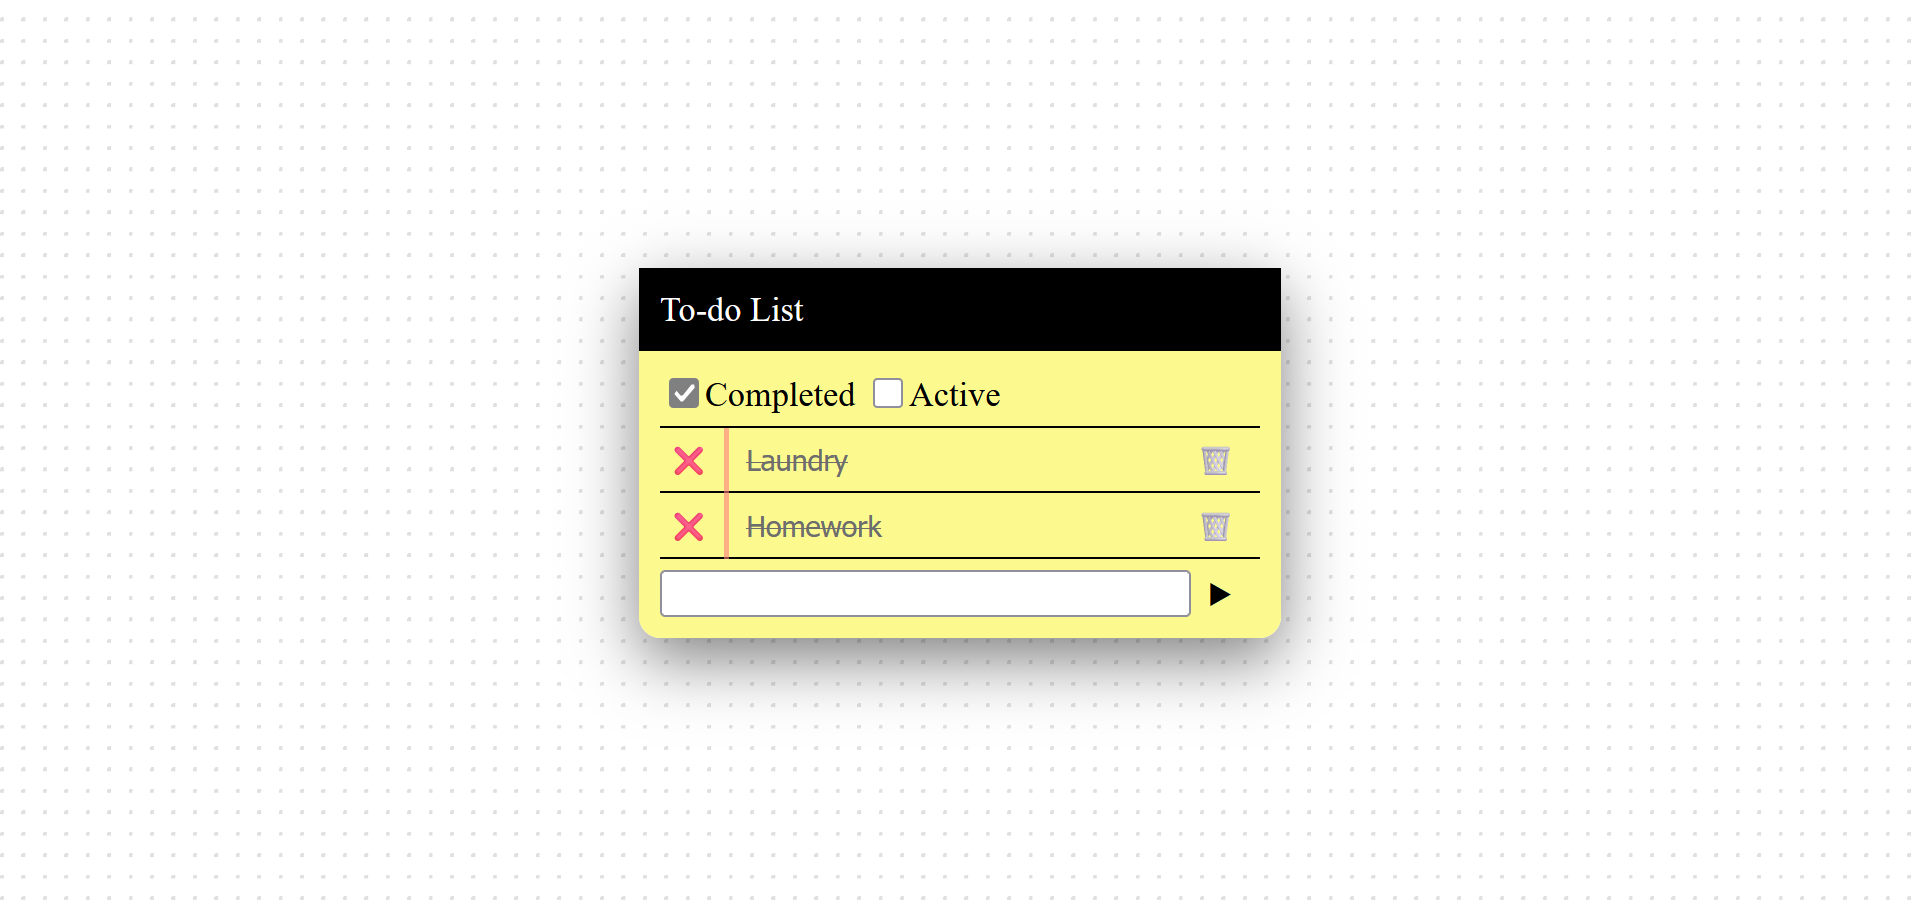
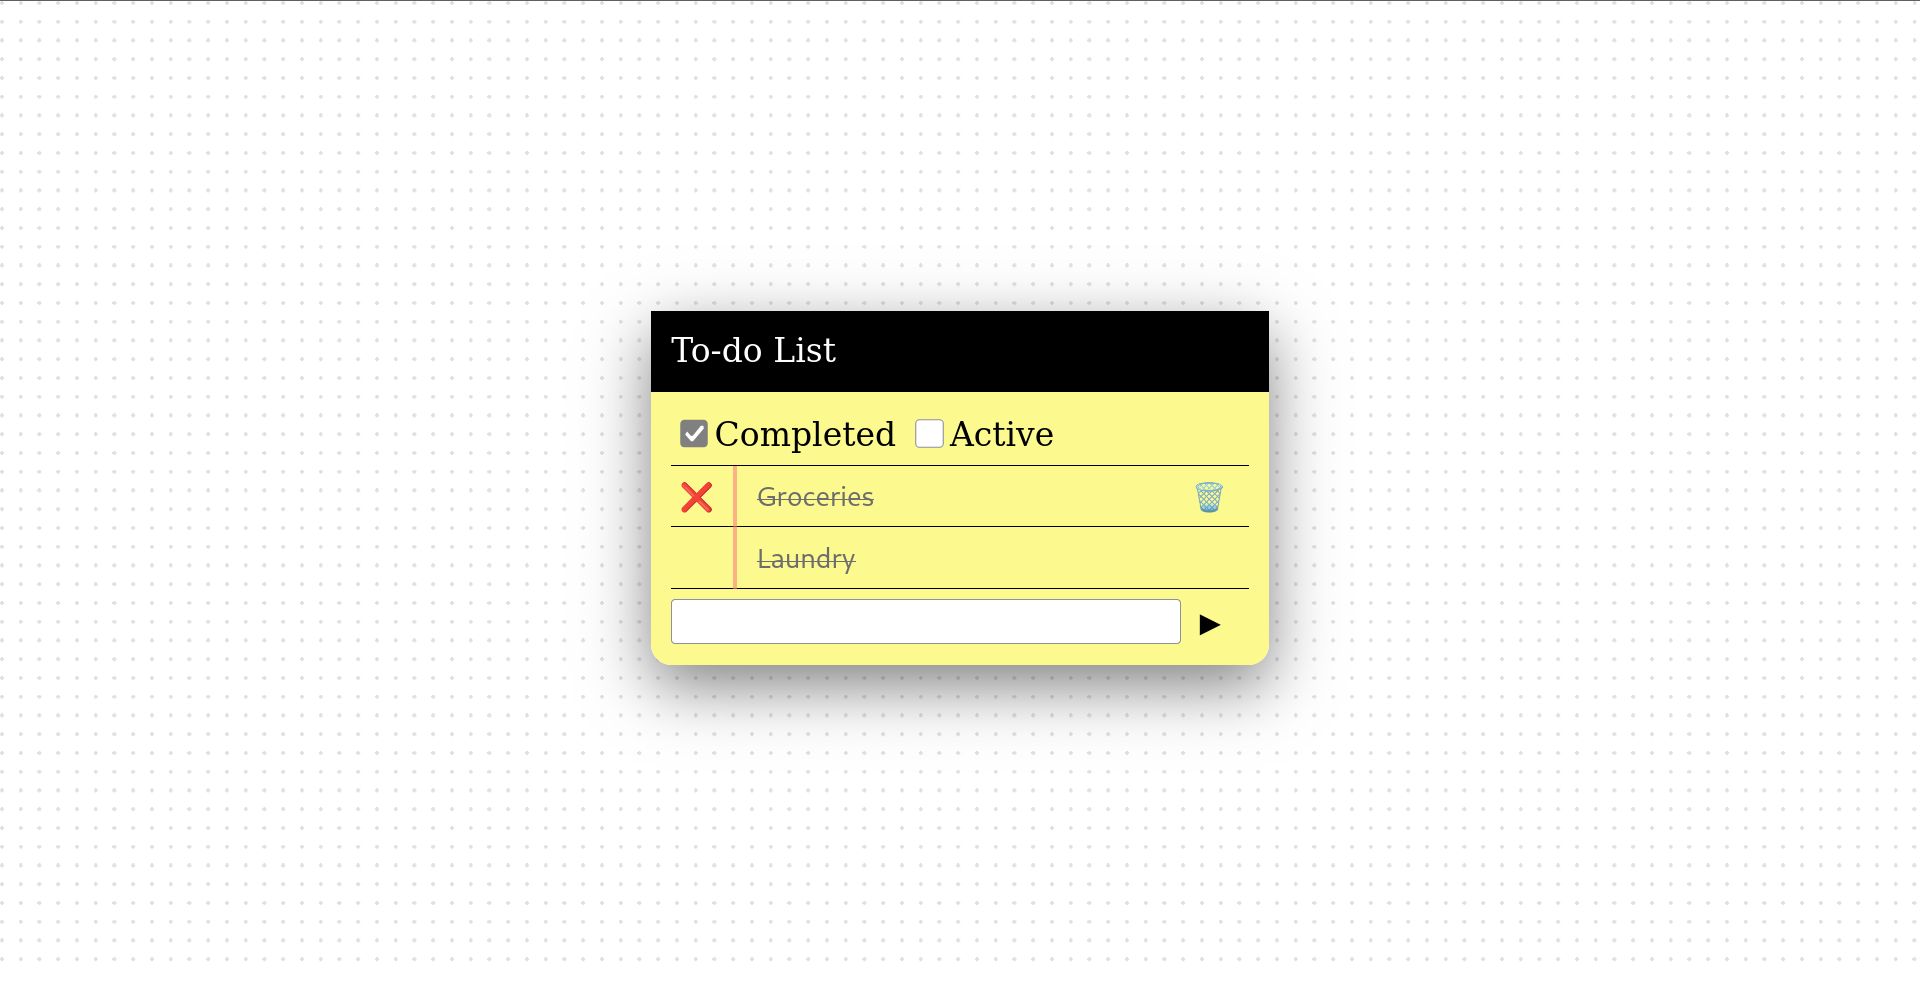
fixed bugs and added redundancy for REST

Changed region(s): [[0.3078, 0.2775, 0.6771, 0.7709]]

diff --git a/index.js b/index.js
@@ -4,61 +4,97 @@ const submitButton = document.getElementById("todo-submit");
 const completedBox = document.getElementById("completed-box");
 const activeBox = document.getElementById("active-box");
 
+userTextField.value = '';
 let todos = []
 
 async function loadTodos() {
-    const res = await fetch('http://localhost:3000/todos');
-    const data = await res.json();
-    return data;
+    try {
+        const res = await fetch('http://localhost:3000/todos');
+        const data = await res.json();
+        return data;
+    } catch (err) {
+        console.error(err);
+    }
 }
 
 async function deleteTodo(todoId) {
-    await fetch(`http://localhost:3000/todos/${todoId}`, { method: 'DELETE' });
-    
-    renderTodos();
+    try {
+        await fetch(`http://localhost:3000/todos/${todoId}`, { method: 'DELETE' });
+        
+        renderTodos();
+    } catch (err) {
+        console.error(err);
+    }
 }
 
 async function doneTodo(todoId) {
-    const todo = todos.find(t => t._id === todoId);
-    await fetch(`http://localhost:3000/todos/${todoId}`, {
-        method: 'PATCH',
-        headers: { 'Content-Type': 'application/json' },
-        body: JSON.stringify({ status: !todo.status })
-    })
-
-    renderTodos();
+    try {
+        const todo = todos.find(t => t._id === todoId);
+        await fetch(`http://localhost:3000/todos/${todoId}`, {
+            method: 'PATCH',
+            headers: { 'Content-Type': 'application/json' },
+            body: JSON.stringify({ status: !todo.status })
+        })
+    
+        renderTodos();
+    } catch (err) {
+        console.error(err);
+    }
 }
 
 async function insertTodo() {
-    const textValue = userTextField.value;
-    userTextField.value = "";
-
-    const res = await fetch('http://localhost:3000/todos', {
-        method: 'POST',
-        headers: { 'Content-Type': 'application/json' },
-        body: JSON.stringify({ text: textValue })
-    });
+    try {
+        if (!userTextField.value) return;
+        const textValue = userTextField.value;
+        userTextField.value = "";
     
-    renderTodos();
+        const res = await fetch('http://localhost:3000/todos', {
+            method: 'POST',
+            headers: { 'Content-Type': 'application/json' },
+            body: JSON.stringify({ text: textValue })
+        });
+        
+        renderTodos();
+    } catch (err) {
+        console.error(err);
+    }
 }
 
 // Creates a html containing the to do list
 function createTodo(id, text, status) {
     return `
         <div class="counter-element" data-id="id-${id}">
-        <button class="done-button button">${status ? "❌" : "✔"}</button>
-        <input class="text-area ${status ? "strike" : ""}" value="${text}" ${status ? "disabled" : ""}>
-        <button class="delete-button button">🗑</button>
+            <div class="todo-button-div">
+                <button class="done-button button todo-button">${status ? "❌" : "✔"}</button>
+            </div>
+            <input class="text-area ${status ? "strike" : ""}" value="${text}" ${status ? "disabled" : ""}>
+            <div class="todo-button-div">
+                <button class="delete-button button todo-button">🗑</button>
+            </div>
         </div>
     `;
 }
     
-function setupEventListener(newTodo, todoId) {
+async function setupEventListener(newTodo, todoId) {
     const doneButton = newTodo.querySelector(".done-button");
     const deleteButton = newTodo.querySelector(".delete-button");
+    const todoInput = newTodo.querySelector(".text-area");
 
     doneButton.addEventListener("click", () => doneTodo(todoId));
     deleteButton.addEventListener("click", () => deleteTodo(todoId));
+    
+    try {
+        // Save the changes made
+        todoInput.addEventListener("change", async (e) => {
+            await fetch(`http://localhost:3000/todos/${todoId}`, {
+                method: 'PATCH',
+                headers: { 'Content-Type': 'application/json' },
+                body: JSON.stringify({ text: e.target.value })
+            })
+        });
+    } catch (err) {
+        console.error(err);
+    }
 }
 
 async function renderTodos(complete = completedBox.checked, active = activeBox.checked) {
@@ -87,7 +123,7 @@ activeBox.addEventListener("change", () => renderTodos(completedBox.checked, act
 
 document.addEventListener("keydown", (event) => {
     const key = event.key;
-    if (key === "Enter") {
+    if (key === "Enter" && userTextField.value && document.activeElement === userTextField) {
         event.preventDefault();
         insertTodo();
     }

diff --git a/server/routes/todos.js b/server/routes/todos.js
@@ -4,23 +4,39 @@ const Todo = require('../models/Todo')
 
 
 router.get('/', async (req, res) => {
-    const todos = await Todo.find();
-    res.json(todos)
+    try {
+        const todos = await Todo.find();
+        res.json(todos)
+    } catch (err) {
+        next(err);
+    }
 })
 
 router.post('/', async (req, res) => {
-    const todo = await Todo.create({ text: req.body.text })
-    res.json(todo)
+    try {
+        const todo = await Todo.create({ text: req.body.text })
+        res.json(todo)
+    } catch (err) {
+        next(err);
+    }
 })
 
 router.delete('/:id', async (req, res) => {
-    await Todo.findByIdAndDelete(req.params.id)
-    res.json({ success:true })
+    try {
+        await Todo.findByIdAndDelete(req.params.id)
+        res.json({ success:true })
+    } catch (err) {
+        next(err);
+    }
 })
 
 router.patch('/:id', async (req, res) => {
-    await Todo.findByIdAndUpdate(req.params.id, req.body)
-    res.json({ success: true })
+    try {
+        await Todo.findByIdAndUpdate(req.params.id, req.body)
+        res.json({ success: true })
+    } catch (err) {
+        next(err);
+    }
 })
 
 module.exports = router

diff --git a/style.css b/style.css
@@ -6,6 +6,9 @@ body {
     align-items: center;
     min-height: 100dvh;
     margin: 0;
+    transform: scale(1.1);
+    transform-origin: center;
+    overflow: hidden;
 }
 
 #todo {
@@ -38,6 +41,8 @@ body {
 .counter-element {
     padding: 5px 0 5px 0;
     border-bottom: 1px solid;
+    display: flex;
+    flex-direction: row;
 }
 
 #todo-list {
@@ -56,10 +61,14 @@ body {
 }
 
 .text-area {
-    padding-left: 10px;
+    margin-left: 15px;
     min-width: 200px;
     border: none;
     background: transparent;
+}
+
+.delete-button {
+    margin-left: 5px;
 }
 
 .button {
@@ -71,6 +80,17 @@ body {
     transform: translateY(-2px);
     box-shadow: 0 1px 2px rgba(0, 0, 0, 0.1);
     filter: brightness(1.05);
+}
+
+.counter-element .todo-button-div {
+    opacity: 0;
+    pointer-events: none;
+    transition: 0.2s;
+}
+
+.counter-element:hover .todo-button-div {
+    opacity: 1;
+    pointer-events: auto;
 }
 
 #todo-text {

diff --git a/server/index.js b/server/index.js
@@ -14,6 +14,11 @@ app.get('/', (req, res) => {
     res.send('Hello World')
 })
 
+app.use((err, req, res, next) => {
+    console.error(err);
+    res.status(500).json({ error: "Server error" });
+});
+
 mongoose.connect(process.env.MONGO_URI)
     .then(() => console.log('MongoDB connected'))
     .catch(err => console.log(err))

diff --git a/README.md b/README.md
@@ -24,6 +24,11 @@ A browser todo list app that is built to progress my frontend development. This 
 ### Completed Tasks
 ![Completed Tasks](images/Completed.png)
 
+### Mobile View
+<p align="center">
+  <img src="images/Mobile.png" width="280">
+</p>
+
 ### Empty Tasks
 ![Empty Tasks](images/Empty.png)
 
